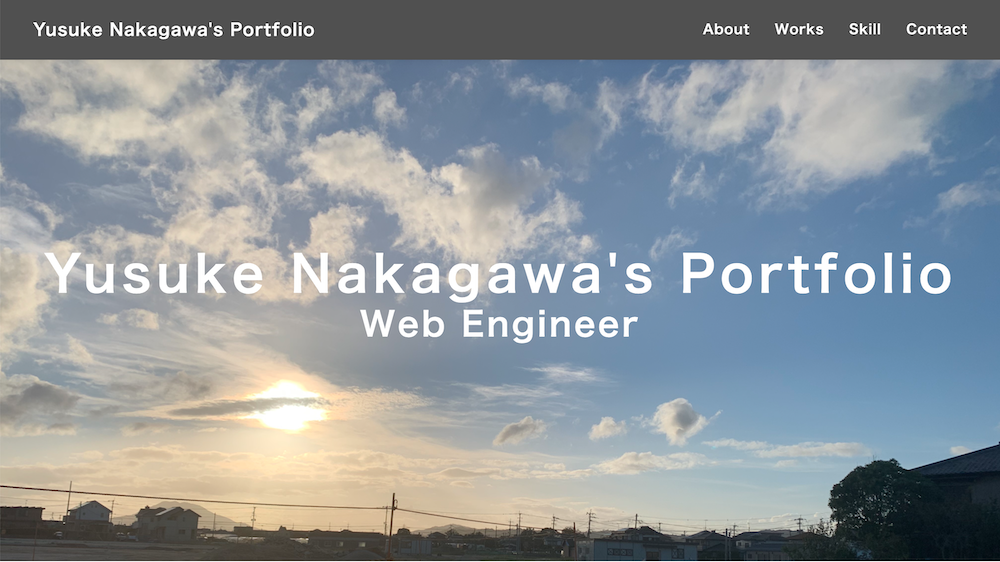
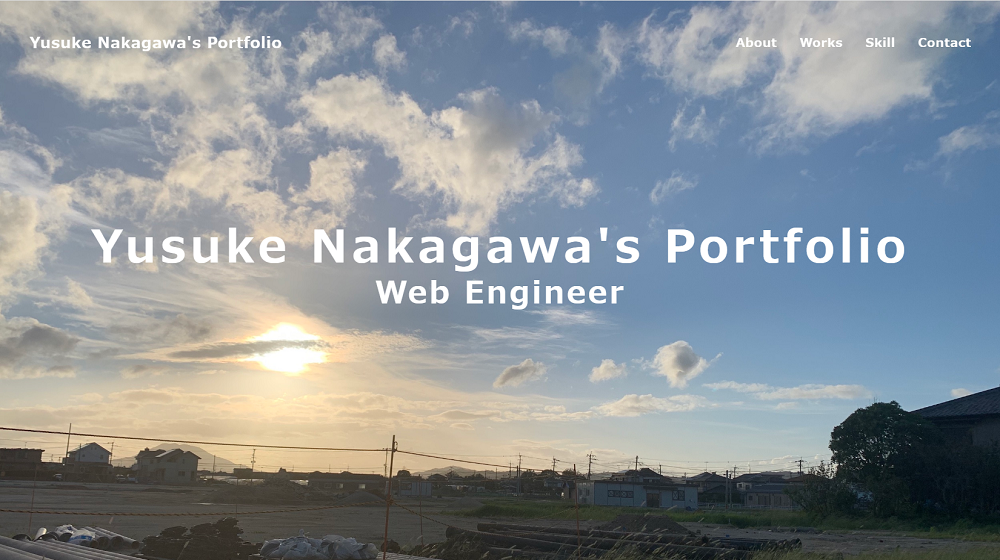
[update]ポートフォリオのスクリーンショットの変更・追加

diff --git a/pages/works/Portfolio.vue b/pages/works/Portfolio.vue
@@ -13,7 +13,10 @@
           <div class="article-body">
             <p class="article-image">
               <carousel :per-page="1">
-                <slide><img src="@/assets/img/works/portfolio/portfolio.png" alt="サイトのスクリーンショット"></slide>
+                <slide><img src="@/assets/img/works/portfolio/portfolio.png" alt="ポートフォリオサイトのスクリーンショット"></slide>
+                <slide><img src="@/assets/img/works/portfolio/portfolio2.png" alt="ポートフォリオサイトのスクリーンショット"></slide>
+                <slide><img src="@/assets/img/works/portfolio/portfolio3.png" alt="ポートフォリオサイトのスクリーンショット"></slide>
+                <slide><img src="@/assets/img/works/portfolio/portfolio4.png" alt="ポートフォリオサイトのスクリーンショット"></slide>
               </carousel>
             </p>
             <p>
